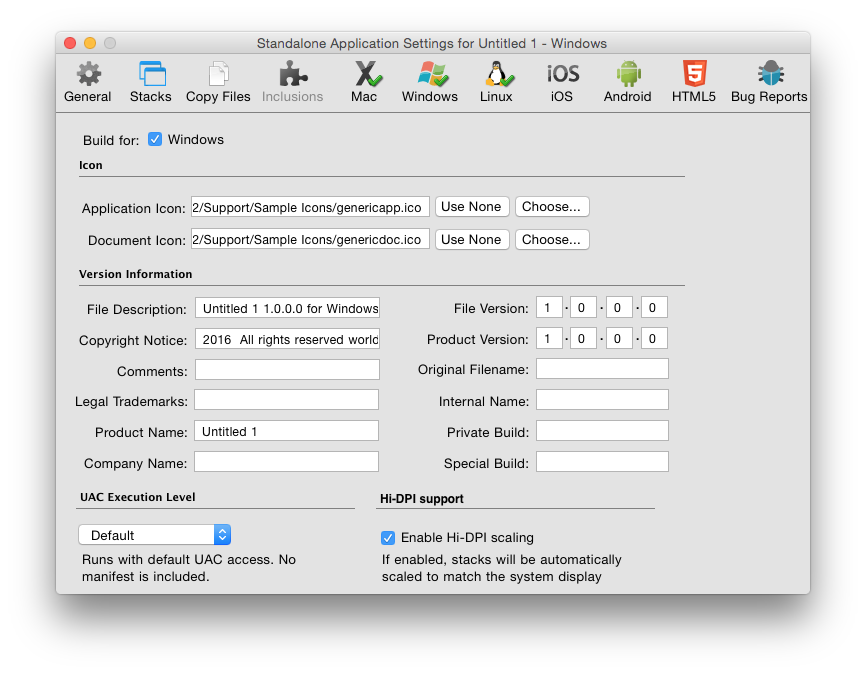
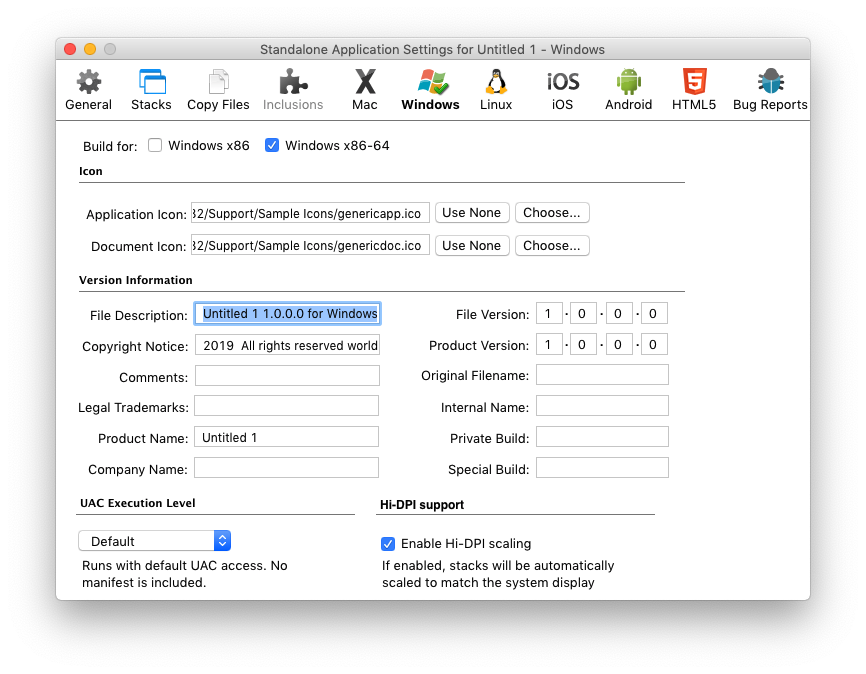
[[ Deploy Docs ]] Add Build for Windows x86_64
This patch updates the windows card image and adds a note about deploying for x86_64

diff --git a/Documentation/guides/Deploying Your Application.md b/Documentation/guides/Deploying Your Application.md
@@ -184,12 +184,13 @@ Figure 5 – Standalone Settings – Mac
 Figure 6 – Standalone Settings – Windows
 
 | &nbsp;| &nbsp;|
-|-------------------------|----------------------------------------------------------------------------------------------------------------------------------------------------------------------------------------------------------------------------------------------------------------------------------|
-| **Build for Windows**   | Build a standalone for the Microsoft Windows OS.                                                                                                                                                                                                                                 |
-| **Application icon**    | Choose an application icon to represent the application in Windows. The icon should be in .ico format.                                                                                                                                                                           |
-| **Document icon**       | Choose a document icon to represent your application's documents in Windows. The icon should be in .ico format.                                                                                                                                                                  |
-| **Version information** | The version information to be stored as part of your application and displayed in the Windows property inspector and dialogs.                                                                                                                                                    |
-| **UAC Execution Level** | Select the user account control level that applies to your application. For more information, consult [MSDN](https://msdn.microsoft.com/en-us/library/bb384608.aspx)                                                                                                             |
+|--------------------------------|----------------------------------------------------------------------------------------------------------------------------------------------------------------------------------------------------------------------------------------------------------------------------------|
+| **Build for Windows x86**      | Build a 32-bit standalone for the Microsoft Windows OS.                                                                                                                                                                                                                                 |
+| **Build for Windows x86_64**   | Build a 64-bit standalone for the Microsoft Windows OS.                                                                                                                                                                                                                                 |
+| **Application icon**           | Choose an application icon to represent the application in Windows. The icon should be in .ico format.                                                                                                                                                                           |
+| **Document icon**              | Choose a document icon to represent your application's documents in Windows. The icon should be in .ico format.                                                                                                                                                                  |
+| **Version information**        | The version information to be stored as part of your application and displayed in the Windows property inspector and dialogs.                                                                                                                                                    |
+| **UAC Execution Level**        | Select the user account control level that applies to your application. For more information, consult [MSDN](https://msdn.microsoft.com/en-us/library/bb384608.aspx)                                                                                                             |
 
 ![](images/standalone-settings-linux.png)
 
